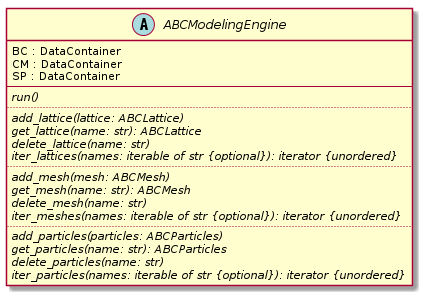
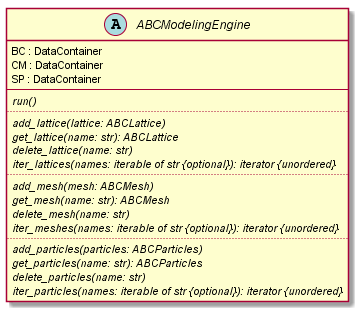
Changing update_node to update_nodes. The code itself, tests, docstrings and uml diagrams should be all done in this commit.

Changed region(s): [[0.0, 0.0, 0.9805, 0.973]]

diff --git a/simphony/testing/abc_check_lattice.py b/simphony/testing/abc_check_lattice.py
@@ -96,7 +96,7 @@ class CheckLatticeNodeOperations(object):
         with self.assertRaises(IndexError):
             container.get_node(index)
 
-    def test_update_node_with_invalid_index(self):
+    def test_update_nodes_with_invalid_index(self):
         container = self.container
 
         index = 2, 3, 4
@@ -104,42 +104,48 @@ class CheckLatticeNodeOperations(object):
 
         node.index = 2, 300, 4
         with self.assertRaises(IndexError):
-            container.update_node(node)
+            container.update_nodes((node,))
 
         node.index = 2, 3, -4
         with self.assertRaises(IndexError):
-            container.update_node(node)
+            container.update_nodes((node,))
 
-    def test_update_node(self):
+    def test_update_nodes(self):
         container = self.container
 
-        index = 2, 3, 4
-        node = container.get_node(index)
-        node.data = create_data_container(restrict=self.supported_cuba())
-        container.update_node(node)
+        indices = ((2,3,4), (1,2,3))
+        nodes = [container.get_node(index) for index in indices]
+        for node in nodes:
+            node.data = create_data_container(restrict=self.supported_cuba())
+        container.update_nodes(nodes)
 
-        new_node = container.get_node(index)
-        self.assertEqual(new_node, node)
-        # Check that `new_node` is not the same instance as `node`
-        self.assertIsNot(new_node, node)
+        for n in xrange(len(indices)):
+            index = indices[n]
+            new_node = container.get_node(index)
+            self.assertEqual(new_node, nodes[n])
+            # Check that `new_node` is not the same instance as `node`
+            self.assertIsNot(new_node, nodes[n])
 
-    def test_update_node_with_extra_keywords(self):
+    def test_update_nodes_with_extra_keywords(self):
         container = self.container
 
-        index = 2, 3, 4
-        node = container.get_node(index)
+        indices = ((2,3,4), (1,2,3))
+        nodes = [container.get_node(index) for index in indices]
         # Update with full DataContainer.
-        node.data = create_data_container()
-        container.update_node(node)
+        for node in nodes:
+            node.data = create_data_container()
+        container.update_nodes(nodes)
 
-        new_node = container.get_node(index)
-        # We expect only the supported CUBA to be stored.
-        expected = LatticeNode(
-            index=node.index,
-            data=create_data_container(restrict=self.supported_cuba()))
-        self.assertEqual(new_node, expected)
-        # Check that `new_node` is not the same instance as `node`
-        self.assertIsNot(new_node, node)
+        for n in xrange(len(indices)):
+            index = indices[n]
+            new_node = container.get_node(index)
+            # We expect only the supported CUBA to be stored.
+            expected = LatticeNode(
+                index=nodes[n].index,
+                data=create_data_container(restrict=self.supported_cuba()))
+            self.assertEqual(new_node, expected)
+            # Check that `new_node` is not the same instance as `node`
+            self.assertIsNot(new_node, nodes[n])
 
 
 class CheckLatticeNodeCoordinates(object):

diff --git a/simphony/cuds/lattice.py b/simphony/cuds/lattice.py
@@ -72,19 +72,21 @@ class Lattice(ABCLattice):
             raise IndexError('invalid index: {}'.format(tuple_index))
         return LatticeNode(tuple_index, self._dcs[tuple_index])
 
-    def update_node(self, lat_node):
-        """Update the corresponding lattice node (data copied).
+    def update_nodes(self, nodes):
+        """Update the corresponding lattice nodes (data copied).
 
         Parameters
         ----------
-        lat_node : reference to a LatticeNode object
-            data copied from the given node
+        nodes : an iterator to a LatticeNode objects
+            reference to LatticeNode objects from where the data is copied
+            to the Lattice
 
         """
-        index = lat_node.index
-        if any(value < 0 for value in index):
-            raise IndexError('invalid index: {}'.format(index))
-        self._dcs[index] = DataContainer(lat_node.data)
+        for node in nodes:
+            index = node.index
+            if any(value < 0 for value in index):
+                raise IndexError('invalid index: {}'.format(index))
+            self._dcs[index] = DataContainer(node.data)
 
     def iter_nodes(self, indices=None):
         """Get an iterator over the LatticeNodes described by the indices.

diff --git a/simphony/io/h5_lattice.py b/simphony/io/h5_lattice.py
@@ -86,22 +86,23 @@ class H5Lattice(ABCLattice):
             raise IndexError('invalid index: {}'.format(index))
         return LatticeNode(index, self._table[n])
 
-    def update_node(self, node):
+    def update_nodes(self, nodes):
         """ Updates H5Lattice data for a LatticeNode
 
         Parameters
         ----------
-        node : LatticeNode
-            reference to LatticeNode object
+        nodes : iterator of LatticeNodes
+            reference to LatticeNode objects
 
         """
         # Find correct row for node
-        index = node.index
-        try:
-            n = np.ravel_multi_index(index, self._size)
-        except ValueError:
-            raise IndexError('invalid index: {}'.format(index))
-        self._table[n] = node.data
+        for node in nodes:
+            index = node.index
+            try:
+                n = np.ravel_multi_index(index, self._size)
+            except ValueError:
+                raise IndexError('invalid index: {}'.format(index))
+            self._table[n] = node.data
 
     def iter_nodes(self, indices=None):
         """ Get an iterator over the LatticeNodes described by the ids.

diff --git a/simphony/cuds/abstractlattice.py b/simphony/cuds/abstractlattice.py
@@ -38,12 +38,12 @@ class ABCLattice(object):
         """
 
     @abstractmethod
-    def update_node(self, node):
-        """Update the corresponding lattice node.
+    def update_nodes(self, nodes):
+        """Update the corresponding lattice nodes.
 
         Parameters
         ----------
-        node : LatticeNode
+        nodes : iterator of LatticeNodes
 
         """
 

diff --git a/simphony/io/h5_cuds.py b/simphony/io/h5_cuds.py
@@ -155,8 +155,7 @@ class H5CUDS(object):
             group, lattice.type, lattice.base_vect,
             lattice.size, lattice.origin)
         h5_lattice.data = lattice.data
-        for node in lattice.iter_nodes():
-            h5_lattice.update_node(node)
+        h5_lattice.update_nodes(lattice.iter_nodes())
 
         return h5_lattice
 
